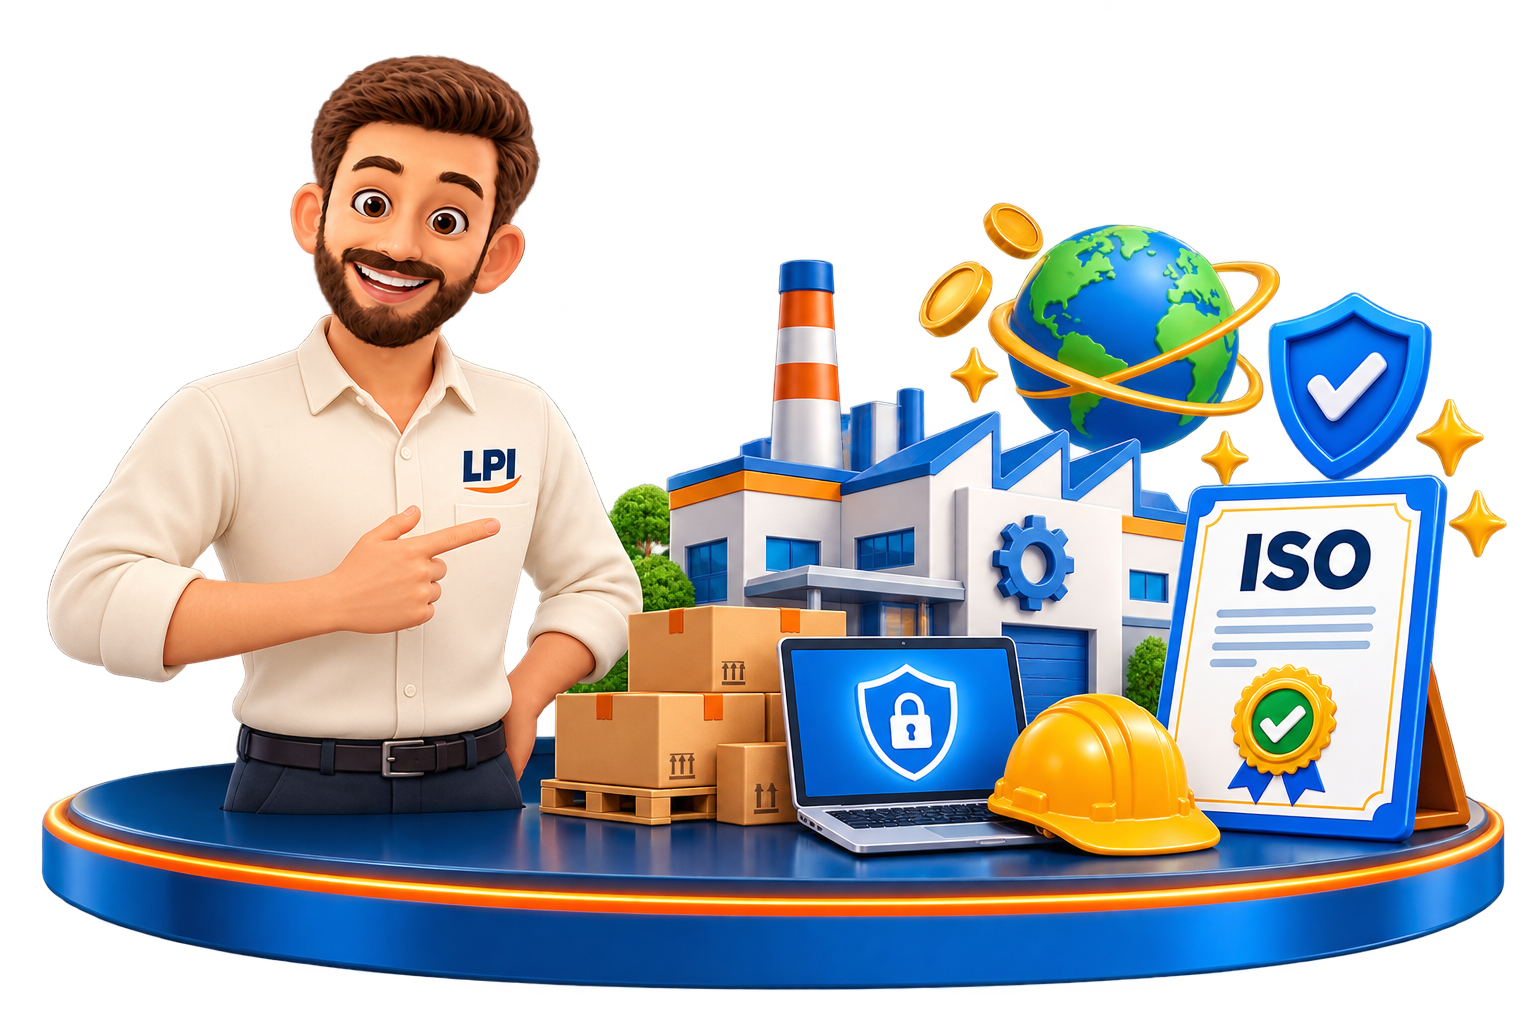
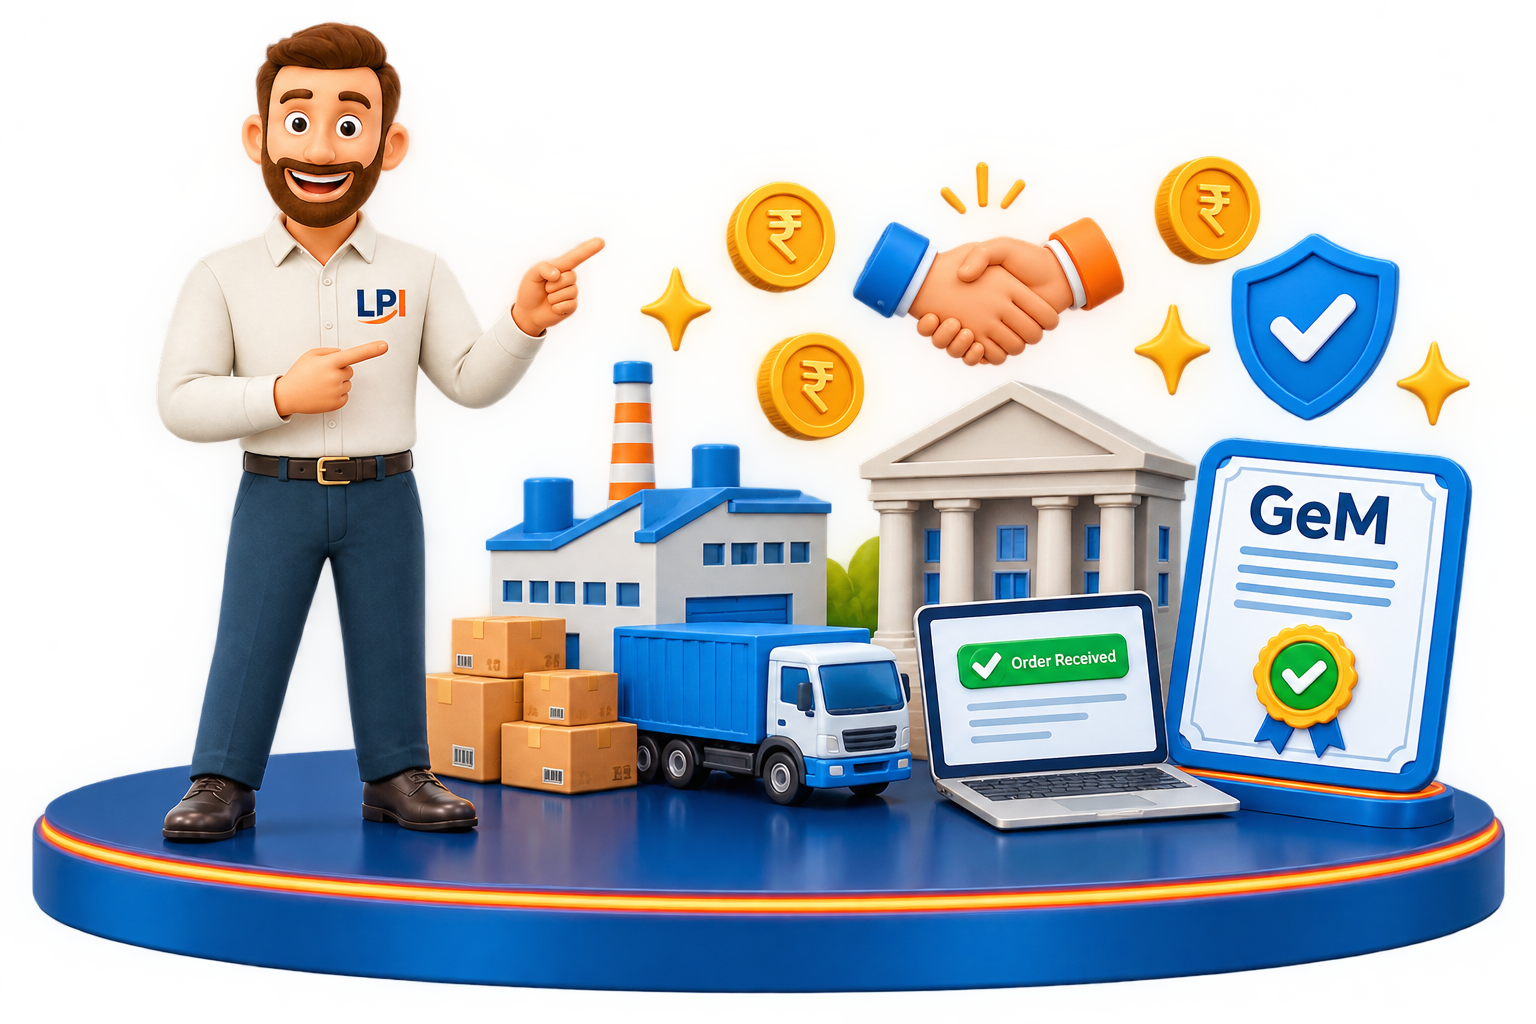
fix

diff --git a/src/components/Hero.jsx b/src/components/Hero.jsx
@@ -1,18 +1,18 @@
 import { motion } from "framer-motion";
 import { CheckCircle2, Star, ArrowRight } from "lucide-react";
 import LeadForm from "./LeadForm";
-import heroImage from "../assets/iso-hero.png";
+import heroImage from "../assets/gem-hero.png";
 import secureIcon from "../assets/card.png";
 import speedIcon from "../assets/card2.png";
 import supportIcon from "../assets/card3.png";
 
 const points = [
-  "Gap Analysis by Experts",
-  "All Major ISO Standards",
-  "Dedicated ISO Advisor",
-  "3-Year Certificate Validity",
-  "Surveillance Audit Support",
-  "Typical 3–8 Weeks",
+  "Profile & Document Check",
+  "Seller, OEM & Brand Support",
+  "Dedicated GeM Advisor",
+  "Catalogue & Bid Guidance",
+  "MSME Benefits Setup",
+  "No Hidden Charges",
 ];
 
 const trustBadges = [
@@ -26,20 +26,20 @@ const trustBadges = [
   {
     image: speedIcon,
     label: "Fast Turnaround",
-    sub: "Typically 3–8 weeks",
+    sub: "Quick profile setup",
     grad: "from-orange-400 to-amber-500",
     ring: "bg-orange-50",
   },
   {
     image: supportIcon,
     label: "Dedicated Expert Support",
-    sub: "Talk to a real ISO expert",
+    sub: "Talk to a real GeM expert",
     grad: "from-sky-400 to-blue-600",
     ring: "bg-blue-50",
   },
 ];
 
-const miniSteps = ["Share details", "Gap analysis & audit", "Get your ISO"];
+const miniSteps = ["Share documents", "We set up on GeM", "Start bidding"];
 
 export default function Hero() {
   return (
@@ -80,7 +80,7 @@ export default function Hero() {
             transition={{ duration: 0.5 }}
             className="font-mono text-sm font-bold uppercase tracking-[0.16em] text-orange-500 sm:text-base sm:tracking-[0.2em]"
           >
-            ISO Certification · Pan-India
+            GeM Registration · Pan-India
           </motion.p>
 
           {/* Main Heading */}
@@ -90,11 +90,11 @@ export default function Hero() {
             transition={{ duration: 0.6, delay: 0.1 }}
             className="mt-4 font-display text-[2.35rem] font-extrabold leading-[1.08] tracking-tight text-[#126dc4] sm:text-5xl lg:text-[3.65rem]"
           >
-            Get ISO Certification
+            Get GeM Registration
             <br />
-            done the{" "}
+            and sell to the{" "}
             <span className="relative inline-block italic text-orange-500">
-              right way.
+              Government.
               {/* Underline */}
               <svg
                 viewBox="0 0 160 14"
@@ -119,9 +119,9 @@ export default function Hero() {
             transition={{ duration: 0.6, delay: 0.2 }}
             className="mt-6 max-w-lg text-base leading-relaxed text-slate-600 sm:text-lg"
           >
-            Legal Papers India handles the gap analysis, the documentation and the
-            audit coordination — so your ISO certification is genuine,
-            audit-ready and never stuck halfway.
+            Legal Papers India handles your GeM seller profile, document checks
+            and approvals — so you spend your time winning government orders,
+            not fighting the portal.
           </motion.p>
 
           {/* Banner image — mobile/tablet only, full width (edge to edge) */}
@@ -133,7 +133,7 @@ export default function Hero() {
           >
             <img
               src={heroImage}
-              alt="ISO certification by Legal Papers India"
+              alt="GeM registration by Legal Papers India"
               className="h-auto w-full object-contain sm:mx-auto sm:max-w-[560px]"
             />
           </motion.div>
@@ -276,7 +276,7 @@ export default function Hero() {
           >
             <img
               src={heroImage}
-              alt="ISO certification by Legal Papers India"
+              alt="GeM registration by Legal Papers India"
               className="relative z-10 h-auto w-64 object-contain drop-shadow-[0_22px_35px_rgba(30,70,120,0.22)] md:w-80 lg:w-[24rem] xl:w-[28rem]"
             />
           </motion.div>

diff --git a/src/components/WhoNeedsGem.jsx b/src/components/WhoNeedsGem.jsx
@@ -1,11 +1,11 @@
 import { motion } from "framer-motion";
 import { Check, ArrowRight, HelpCircle } from "lucide-react";
-import { FaIndustry, FaFileContract, FaLaptopCode, FaHardHat } from "react-icons/fa";
+import { FaIndustry, FaBoxes, FaHandsHelping, FaRocket } from "react-icons/fa";
 
-import { whoNeedsIso } from "../data";
+import { whoNeedsGem } from "../data";
 import lpiMascot from "../assets/lpi-mascot.png";
 
-const itemIcons = [FaIndustry, FaFileContract, FaLaptopCode, FaHardHat];
+const itemIcons = [FaIndustry, FaBoxes, FaHandsHelping, FaRocket];
 
 /* Har card ka apna colour theme */
 const themes = [
@@ -67,7 +67,7 @@ function NeedCard({ item, i }) {
         className={`relative mt-5 inline-flex w-fit items-center gap-1.5 rounded-full px-3 py-1 text-xs font-bold ${t.soft} ${t.text}`}
       >
         <Check className="h-3.5 w-3.5" strokeWidth={3} />
-        {item.tag ?? "ISO"}
+        {item.tag ?? "GeM"}
       </div>
 
       {/* bottom accent line */}
@@ -78,7 +78,7 @@ function NeedCard({ item, i }) {
   );
 }
 
-export default function WhoNeedsIso() {
+export default function WhoNeedsGem() {
   return (
     <section className="relative overflow-hidden bg-gradient-to-b from-white via-[#f5f9ff] to-white py-12 sm:py-20 lg:py-24">
       {/* ================= BACKGROUND DECORATION ================= */}
@@ -115,18 +115,18 @@ export default function WhoNeedsIso() {
               <h2 className="mt-4 font-display text-3xl font-extrabold leading-tight text-[#173252] sm:text-4xl lg:text-5xl">
                 Who needs{" "}
                 <span className="bg-gradient-to-r from-[#126dc4] to-cyan-500 bg-clip-text text-transparent">
-                  ISO?
+                  GeM?
                 </span>
               </h2>
 
               <p className="mx-auto mt-4 max-w-2xl text-base leading-relaxed text-slate-600 sm:text-lg lg:mx-0">
-                Any one of these applies to you? ISO certification can open doors for your business.
+                Any one of these applies to you? GeM can bring government orders to your business.
               </p>
             </motion.div>
 
             {/* ================= CARDS ================= */}
             <div className="mt-8 grid grid-cols-1 gap-4 sm:mt-10 sm:grid-cols-2 sm:gap-5">
-              {whoNeedsIso.map((item, i) => (
+              {whoNeedsGem.map((item, i) => (
                 <NeedCard key={item.title} item={item} i={i} />
               ))}
             </div>
@@ -179,7 +179,7 @@ export default function WhoNeedsIso() {
               className="relative z-20 max-w-md text-center"
             >
               <h3 className="font-display text-2xl font-bold leading-tight text-black sm:text-3xl">
-                Get your ISO certification,
+                Get your GeM registration,
                 <span className="block text-blue-600">
                   done correctly and hassle-free.
                 </span>
@@ -193,7 +193,7 @@ export default function WhoNeedsIso() {
             >
               <motion.img
                 src={lpiMascot}
-                alt="LPI ISO Certification Mascot"
+                alt="LPI GeM Registration Mascot"
                 initial={{ opacity: 0, scale: 0.9 }}
                 whileInView={{ opacity: 1, scale: 1 }}
                 viewport={{ once: true }}

diff --git a/src/components/Services.jsx b/src/components/Services.jsx
@@ -1,41 +1,41 @@
 import { motion } from "framer-motion";
 import {
-  FaAward,
-  FaLeaf,
-  FaHardHat,
-  FaUtensils,
-  FaShieldAlt,
-  FaSyncAlt,
+  FaStore,
+  FaTrademark,
+  FaUserCheck,
+  FaClipboardCheck,
+  FaBoxOpen,
+  FaGavel,
 } from "react-icons/fa";
 import { ArrowRight, Sparkles } from "lucide-react";
 import { services } from "../data";
 
-import img9001 from "../assets/services/iso-9001.png";
-import img14001 from "../assets/services/iso-14001.png";
-import img45001 from "../assets/services/iso-45001.png";
-import img22000 from "../assets/services/iso-22000.png";
-import img27001 from "../assets/services/iso-27001.png";
-import imgSurveillance from "../assets/services/iso-surveillance.png";
+import imgSeller from "../assets/services/gem-seller.png";
+import imgBrand from "../assets/services/gem-brand.png";
+import imgDeemed from "../assets/services/gem-deemed-oem.png";
+import imgAssessment from "../assets/services/gem-vendor-assessment.png";
+import imgCatalogue from "../assets/services/gem-catalogue.png";
+import imgBids from "../assets/services/gem-bids.png";
 
 /* "Get started" link kahan jaye: top wale form ki id */
 const CTA_HREF = "#top-form";
 
 const serviceImages = [
-  img9001,
-  img14001,
-  img45001,
-  img22000,
-  img27001,
-  imgSurveillance,
+  imgSeller,
+  imgBrand,
+  imgDeemed,
+  imgAssessment,
+  imgCatalogue,
+  imgBids,
 ];
 
 const serviceIcons = [
-  FaAward,
-  FaLeaf,
-  FaHardHat,
-  FaUtensils,
-  FaShieldAlt,
-  FaSyncAlt,
+  FaStore,
+  FaTrademark,
+  FaUserCheck,
+  FaClipboardCheck,
+  FaBoxOpen,
+  FaGavel,
 ];
 
 /* Har card ka apna colour theme */
@@ -172,7 +172,7 @@ export default function Services() {
           </span>
 
           <h2 className="mt-4 font-display text-3xl font-extrabold leading-tight text-[#173252] sm:text-4xl md:text-5xl">
-            Everything under ISO,{" "}
+            Everything on GeM,{" "}
             <span className="bg-gradient-to-r from-orange-500 to-amber-500 bg-clip-text text-transparent">
               handled in one place
             </span>

diff --git a/src/App.jsx b/src/App.jsx
@@ -1,7 +1,7 @@
 import Navbar from "./components/Navbar";
 import Hero from "./components/Hero";
 import TrustStrip from "./components/TrustStrip";
-// import WhoNeedsGem from "./components/WhoNeedsGem";
+import WhoNeedsGem from "./components/WhoNeedsGem";
 import GemSelector from "./components/GemSelector";
 import Services from "./components/Services";
 import Pricing from "./components/Pricing";
@@ -17,7 +17,7 @@ import Footer from "./components/Footer";
 import StickyMobileCTA from "./components/StickyMobileCTA";
 import WhatsAppButton from "./components/WhatsAppButton";
 // import WhyUs from "./components/WhyUs";
-// import DocumentsRequired from "./components/DocumentsRequired";
+import DocumentsRequired from "./components/DocumentsRequired";
 import DirectorMessage from "./components/DirectorMessage";
 
 export default function App() {
@@ -28,13 +28,13 @@ export default function App() {
       <DirectorMessage />
       <Reviews />
       <TrustStrip />
-      {/* <WhoNeedsGem /> */}
+      <WhoNeedsGem />
       <GemSelector />
       <Services />
       <Pricing />
       <ProcessSteps />
       {/* <WhyUs /> */}
-      {/* <DocumentsRequired /> */}
+      <DocumentsRequired />
       <InTheNews />
       <Gallery />
       <FAQ />

diff --git a/src/components/DocumentsRequired.jsx b/src/components/DocumentsRequired.jsx
@@ -1,7 +1,7 @@
 import { useState } from "react";
 import { motion } from "framer-motion";
 import { FileCheck2, ClipboardList, Check } from "lucide-react";
-import { documentsRequired, documentsStandard } from "../data";
+import { documentsRequired, documentsOem } from "../data";
 
 import iconPan from "../assets/documents/doc-pan.png";
 import iconAadhaar from "../assets/documents/doc-aadhaar.png";
@@ -30,8 +30,8 @@ const themes = [
 ];
 
 const tabs = [
-  { key: "basic", label: "All Standards" },
-  { key: "license", label: "By Standard" },
+  { key: "basic", label: "Seller Registration" },
+  { key: "license", label: "OEM & Brand" },
 ];
 
 function DocCard({ doc, i }) {
@@ -116,7 +116,7 @@ function DocCard({ doc, i }) {
 
 export default function DocumentsRequired() {
   const [tab, setTab] = useState("basic");
-  const docs = tab === "basic" ? documentsRequired : documentsStandard;
+  const docs = tab === "basic" ? documentsRequired : documentsOem;
 
   return (
     <section className="relative overflow-hidden bg-gradient-to-b from-white via-[#f5f9ff] to-white py-12 sm:py-20">
